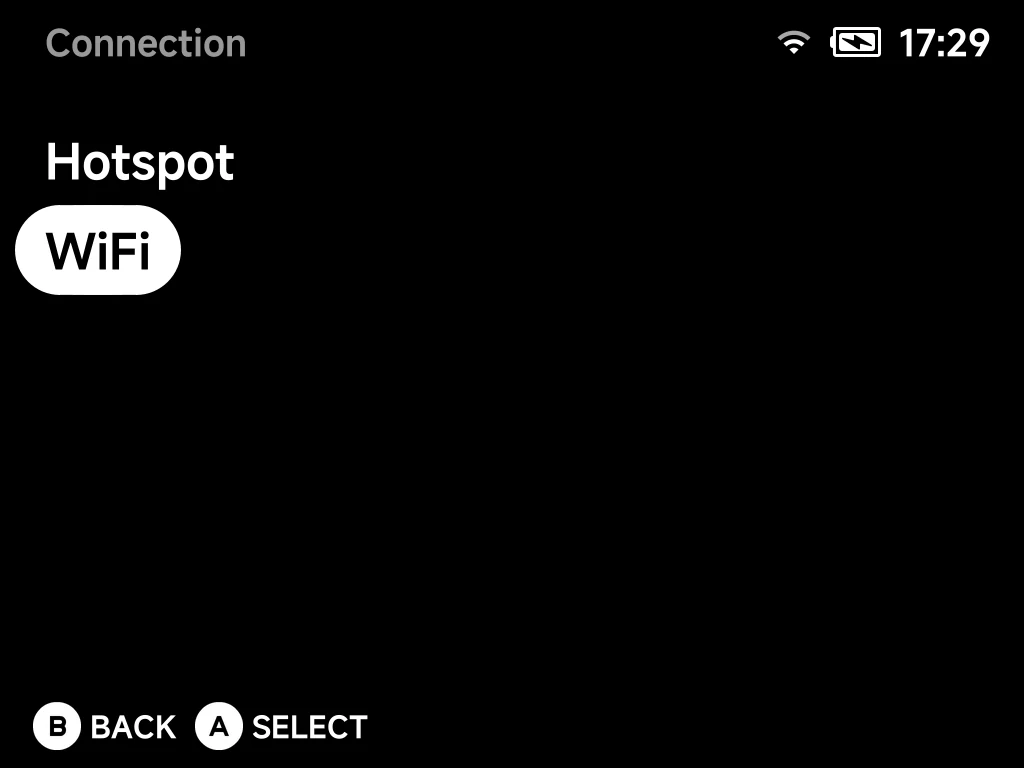
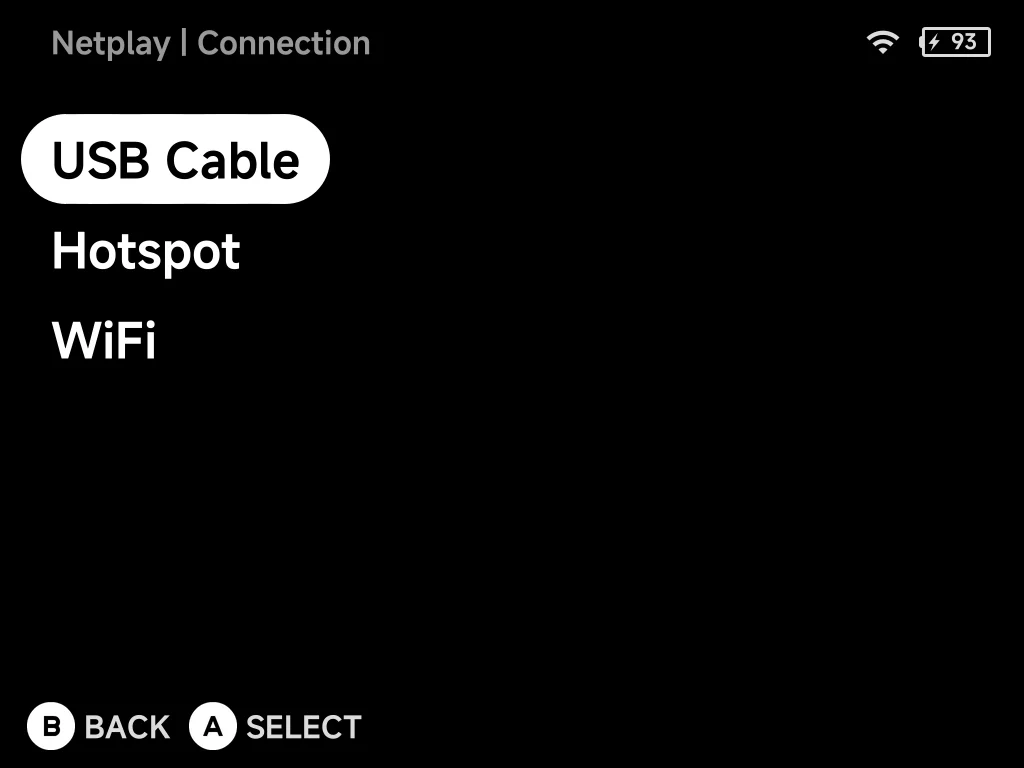
docs(handheld): Netplay USB Cable connection mode, listed first, with the waiting screen

diff --git a/docs/handheld/netplay.md b/docs/handheld/netplay.md
@@ -1,12 +1,13 @@
 # Netplay
 
 NX Redux includes [Netplay](https://github.com/mohammadsyuhada/nextui-netplay)
-for **local wireless multiplayer**. When a game supports it, the hint bar in
+for **local multiplayer**. When a game supports it, the hint bar in
 the game list shows `Y NETPLAY`:
 
 ![Y NETPLAY hint in the game list](../assets/screenshots/netplay-hint.png)
 
-Press `Y` to host or join over Wi-Fi or a hotspot hosted by one device. There
+Press `Y` to host or join over Wi-Fi, a hotspot hosted by one device, or a
+[USB cable](#usb-cable) between the two devices. There
 is no IP to type and no persistent toggle to remember to turn off. Save data
 syncs automatically before the match starts.
 
@@ -17,17 +18,62 @@ syncs automatically before the match starts.
 
     ![Netplay host/join](../assets/screenshots/netplay.png)
 
-3. Both players choose how to connect: **Hotspot** (hosted by one device) or **WiFi** (the
-   local network).
+3. Both players choose how to connect: [**USB Cable**](#usb-cable) (a cable
+   between the two devices), **Hotspot** (hosted by one device) or **WiFi**
+   (the local network).
 
-    ![The Connection screen with Hotspot and WiFi](../assets/landing/features/netplay-connection.webp)
+    ![The Connection screen with USB Cable, Hotspot and WiFi](../assets/landing/features/netplay-connection.webp)
 
-4. The joiner picks the host from the **Select Host** list. Devices find each
-   other automatically.
+4. Connect, depending on what you chose:
+    - **USB Cable:** nothing to pick. Both screens wait for the cable link,
+      then connect on their own. See [USB Cable](#usb-cable).
+    - **Hotspot:** the host shows a code; the joiner picks that code.
+    - **WiFi:** the joiner picks the host from the **Select Host** list.
+      Devices on the same network find each other automatically.
 
-    ![The Select Host list showing one host](../assets/landing/features/netplay-select-host.webp)
+        ![The Select Host list showing one host](../assets/landing/features/netplay-select-host.webp)
 
 5. Save data syncs, then the match starts.
+
+## USB Cable
+
+No Wi-Fi nearby, or a laggy one? Connect the two devices with a USB-C to
+USB-C data cable instead. A cable is much steadier than Wi-Fi.
+
+1. Plug the cable into the **top** USB-C port of one device and the
+   **bottom** USB-C port (the charging port) of the other. Either device can
+   take either end.
+2. Both players pick the same game, press `Y` and choose **Host Game** or
+   **Join Game** as usual.
+3. Both players choose **USB Cable**. The screen shows *Waiting for the other
+   device…* until the cable link is up. You can plug the cable in now if you
+   haven't yet. Press `B` to cancel.
+4. There is no host list: the joiner connects straight to the other device.
+   Save data syncs over the cable, then the match starts.
+
+![USB Cable waiting screen](../assets/screenshots/netplay-usb-wait.png)
+
+- **2 players only.** One cable connects two devices.
+- **The top-port device powers the other.** The device with the cable in its
+  top port charges the other one for the whole session, so its battery drains
+  faster. Start with that one well charged.
+- **Same NX Redux version on both.** Otherwise the wizard shows *Both devices
+  need the same NXRedux version.*
+
+!!! tip "Host and Join don't depend on the cable"
+    **Host Game** and **Join Game** have nothing to do with which device has
+    the cable in its top port. Pick them as you like.
+
+??? info "More detail"
+    - Tested between the Brick and the Smart Pro S in both cable directions.
+      The Brick Pro runs the same software as the Brick.
+    - With both ends in top ports, or both in bottom ports, the devices won't
+      connect — the wizard just keeps waiting. Move one end.
+    - Pulling the cable out mid-game ends the session, the same as a lost
+      Wi-Fi connection.
+    - Over the cable the devices answer each other in about 1 ms, with no
+      dropped packets. Wi-Fi through a router has occasional spikes of
+      70–190 ms and some loss.
 
 ## Supported systems
 
